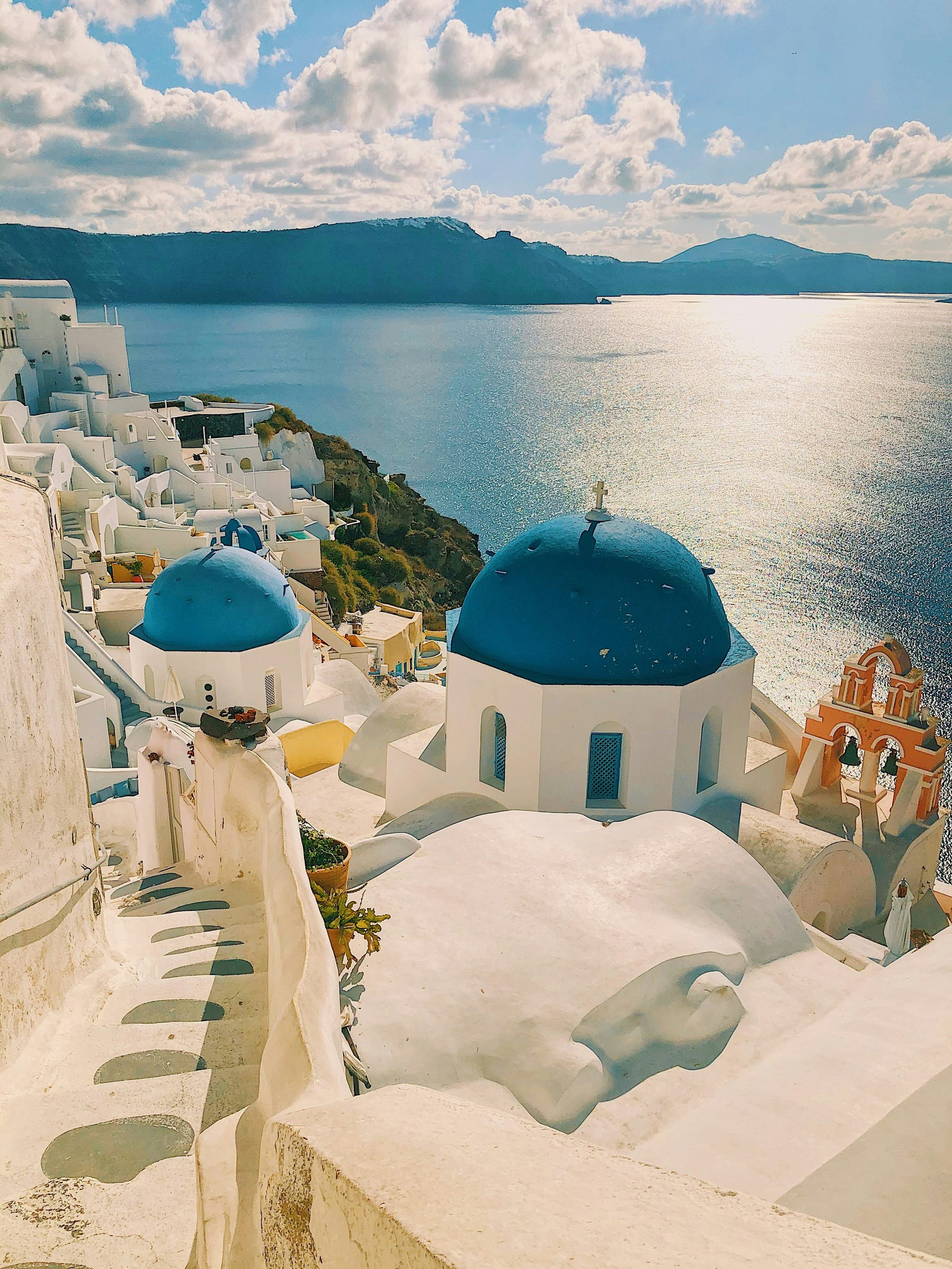
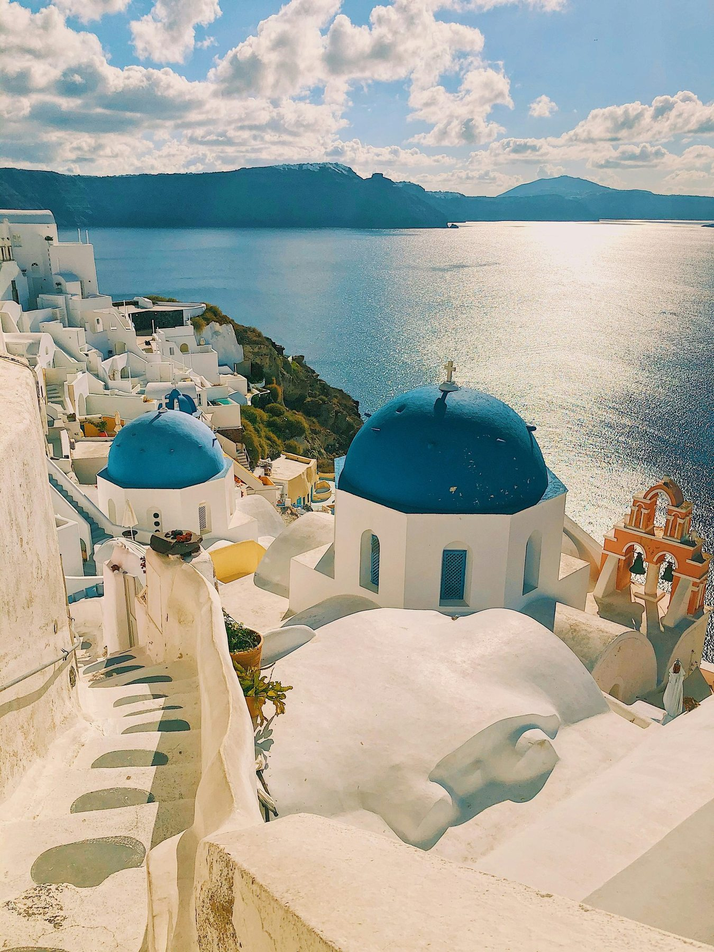
Optimizo las 79 fotos que quedaban sin pasar
Las fotos nuevas entraban tal cual salian de la camara: hasta 8192 px de
lado y 11 MB una sola. Ahora van todas a 1800 px de lado mayor y JPEG
progresivo con calidad 83, que es lo mismo que hice con las 69 primeras.
De 183 MB a 33 MB, y la carpeta entera queda en 60 MB con una media de
410 KB por foto. Ninguna ruta se rompe y ninguna cambia de proporcion.

De paso, hollywood.jpg estaba marcada como vertical y es apaisada: el
encuadre alto que ya tenia queda escrito como foco.

Claude-Session: https://claude.ai/code/session_01Ms1cBGhEe32YArmLvmLC8j

diff --git a/src/config/destinos.js b/src/config/destinos.js
@@ -1382,8 +1382,9 @@ export const DESTINOS = [
       },
       {
         id: 'hollywood',
+        // El cartel queda alto en la foto, asi que el encuadre sube.
+        foco: '50% 32%',
         foto: FOTOS.EEUU_HOLLYWOOD,
-        vertical: true,
         alt: 'El cartel de Hollywood en la ladera de las colinas',
         rotulo: 'El cartel de Hollywood',
         pie: 'Se puso en 1923 y decía Hollywoodland: era el anuncio de una promoción inmobiliaria. Se ve de cerca desde el Griffith Observatory, que es donde se sube la última mañana del viaje.',
